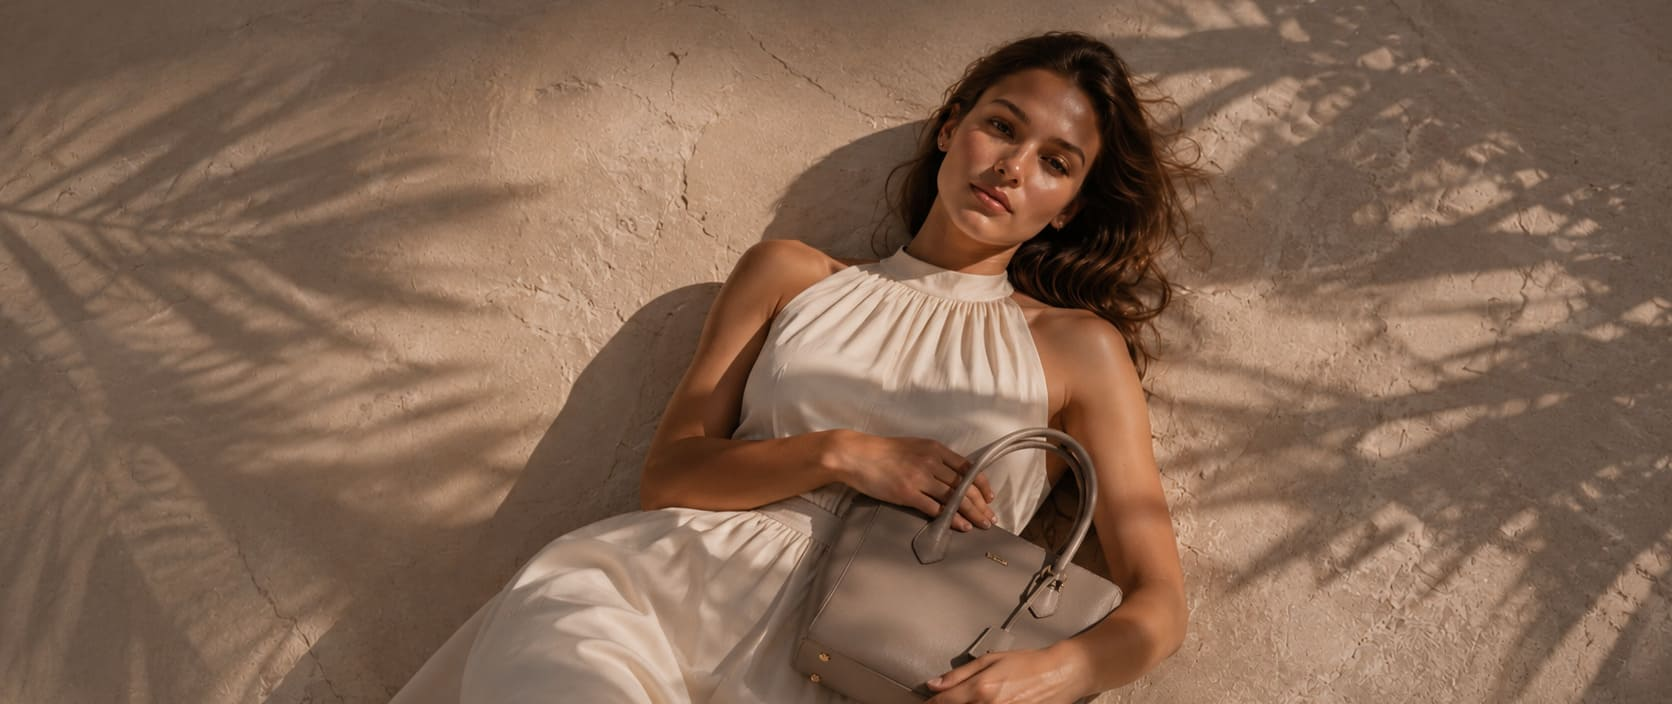
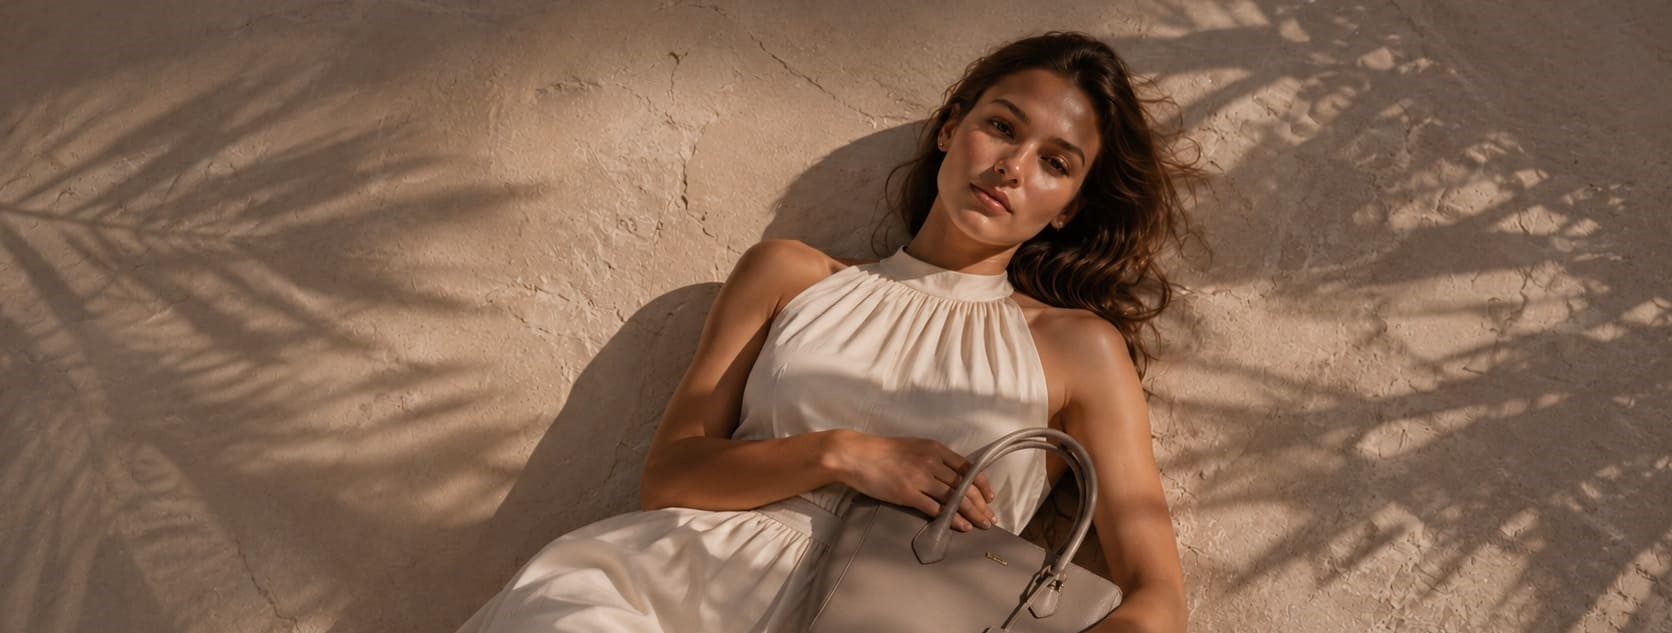
updatean kelima home

diff --git a/index.html b/index.html
@@ -69,7 +69,7 @@
 
         .headercaption{
             position: absolute;
-            top: 65%;
+            top: 55%;
             left: 0;
             right: 0;
 
@@ -345,14 +345,14 @@
                 </div>
 
                 <div class="search">
-                    <img src="image/search.png" alt="Search" height="16">
+                    <img src="image/search.webp" alt="Search" height="16">
                     <a href="/search/html">Search</a>
                 </div>
             </div>
             
             <div class="navmid">
                 <div class="logo">
-                    <img src="image/logonoire.png" alt="Logo Noire" width="170" height="40">
+                    <img src="image/logonoire.webp" alt="Logo Noire" width="170" height="40">
                 </div>
             </div>
 